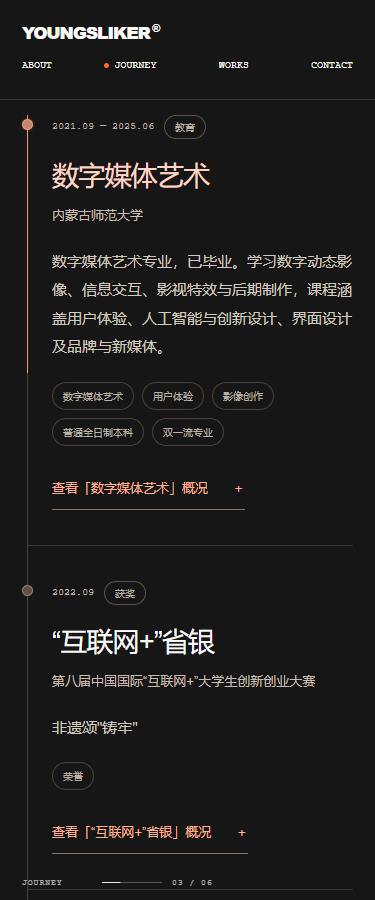
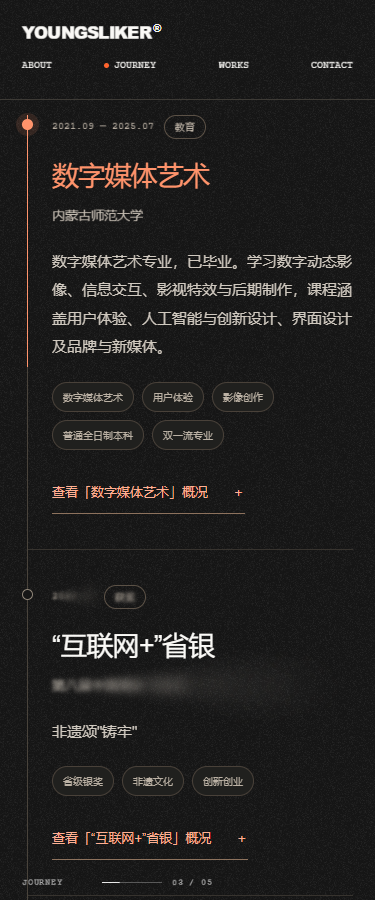
25-26

diff --git a/New/data/journey.ts b/New/data/journey.ts
@@ -4,13 +4,15 @@ export interface TimelineEntry {
 }
 // Explicit source dates only; asset filenames are not evidence of completion.
 const practiceEntries:TimelineEntry[] = [
-  {id:'education',year:'2021',date:'2021.09 — 2025.06',kind:'教育',title:'数字媒体艺术',organization:'内蒙古师范大学',description:'数字媒体艺术专业，已毕业。学习数字动态影像、信息交互、影视特效与后期制作，课程涵盖用户体验、人工智能与创新设计、界面设计及品牌与新媒体。',tags:['数字媒体艺术','用户体验','影像创作','普通全日制本科','双一流专业'],source:'用户提供简历：教育背景',confirmed:true},
+  {id:'education',year:'2021',date:'2021.09 — 2025.07',kind:'教育',title:'数字媒体艺术',organization:'内蒙古师范大学',description:'数字媒体艺术专业，已毕业。学习数字动态影像、信息交互、影视特效与后期制作，课程涵盖用户体验、人工智能与创新设计、界面设计及品牌与新媒体。',tags:['数字媒体艺术','用户体验','影像创作','普通全日制本科','双一流专业'],source:'用户提供简历：教育背景',confirmed:true},
   {id:'mine',year:'2023',date:'2023.08',kind:'项目',title:'矿山*生态',organization:'创作实践',description:'基于 Depth AI 场景建模的 UE5 实机演示。',tags:['Depth AI','UE5','场景建模'],source:'用户提供作品说明及 No.202308',confirmed:true,workId:'mine-eco'},
   {id:'arti',year:'2024',date:'2024.03',kind:'项目',title:'ARTI 人工智能艺术教育教程',organization:'中国人工智能艺术教育协同创新平台',description:'ARTI 平台讲解及人工智能教育联盟公众号教程制作。内容涵盖基础图像生成、产品与交互设计、平面与视觉设计、装置与公共艺术的图像生成教程。',tags:['AI 教程','生成式视觉','艺术教育','内容制作'],source:'用户提供简历：项目经历，2024.03',confirmed:true},
   {id:'lingsu',year:'2024',date:'2024.06',kind:'项目',title:'微元灵溯',organization:'创作实践',description:'基于“隐性饥饿”的 AI 艺术可视化交互设计。',tags:['AI 艺术','可视化','交互设计'],source:'用户提供作品说明及 No.202406',confirmed:true,workId:'weiyuan'},
   {id:'internship',year:'2024',date:'2024.08 — 2024.10',kind:'实习',title:'AIGC 设计师',organization:'上海脸谱心智',description:'参与 AI 动画、宣发物料与模拟器设计，优化 ComfyUI 工作流并使用 PyQt 开发界面。',tags:['ComfyUI','AI 动画','视觉物料','PyQt'],source:'用户提供简历：工作经历',confirmed:true},
   {id:'earthquake',year:'2024',date:'2024.11 — 2024.12',kind:'项目',title:'小马博士讲故事',organization:'内蒙古自治区地震局',description:'“炫动文创联‘萌’守护地震安全”（第二季）——小马博士讲故事活动断层成果应用。制作系列视频，传播活动断层探测成果的应用及减轻地震灾害损失的知识。',tags:['地震科普','系列视频','防灾减灾','知识传播'],source:'用户提供简历：项目经历',confirmed:true},
   {id:'suiyuan',year:'2025',date:'2025.01 — 2025.07',kind:'项目',title:'绥远方志',organization:'“创意内蒙古”设计赋能呼和浩特',description:'以呼和浩特不同时期的史志为内容，设计沉浸式交互系统。使用 AIGC 制作图像、音频、视频、模型、代码与文本，并通过 Unity 整合；结合强化学习智能体、3D 打印与 Pico Neo3 VR 构建体验。',tags:['AIGC','Unity','智能体','VR'],source:'用户提供简历项目经历；完成月份另由用户确认为 2025.07',confirmed:true,workId:'suiyuan'},
+  {id:'studio-practice',year:'2025',date:'2025.07 — 2026.02',kind:'实践',title:'留校工作室实践',organization:'教师工作室',description:'毕业后留校参与老师工作室的项目实践，围绕毕业设计提供技术支持与制作指导，在交流与协作中继续积累项目经验。',tags:['工作室实践','技术支持','毕设指导','项目协作'],source:'用户确认：毕业后留校工作室实践，2025.07—2026.02',confirmed:true},
+  {id:'independent-practice',year:'2026',date:'2026.02 — 至今',kind:'实践',title:'自由项目与创作探索',organization:'独立创作与兼职实践',description:'开展兼职与小型项目实践，继续探索毕业设计相关技术，并通过 Vibe Coding 搭建、迭代个人作品集，将设计想法转化为可体验的交互作品。',tags:['自由项目','Vibe Coding','创意编程','交互设计','作品集开发'],source:'用户确认：2026.02 至今的兼职、小型项目及作品集实践',confirmed:true},
 ];
 // No invented dates or individual/team attribution.
 export const journeyAwards = [

diff --git a/New/css/journey.css b/New/css/journey.css
@@ -47,7 +47,7 @@
 .journey-work-link{border:0;border-bottom:1px solid #8d725d;background:none;cursor:pointer;padding:0;text-align:left}
 .journey-overview{margin-top:24px;padding:26px;border:1px solid #494139;background:#20201e;max-width:720px;animation:overview-in .25s ease-out}.journey-overview h4{font-size:22px;margin:14px 0;color:#ffb093}.journey-overview p{font-size:14px;line-height:1.9;color:#d0c9bf}.journey-overview .journey-overview-meta{font-size:11px;color:#aaa39a;margin-top:18px}.journey-awards time{font:12px var(--mono);color:#aaa39a}@keyframes overview-in{from{opacity:0;transform:translateY(8px)}to{opacity:1;transform:none}}@media(prefers-reduced-motion:reduce){.journey-overview{animation:none}}
 
-@media(max-width:767px){.journey-sidebar nav{display:grid;grid-template-columns:repeat(5,minmax(0,1fr));gap:6px}.journey-sidebar button{min-width:0;flex-direction:column;align-items:flex-start;gap:6px}.journey-sidebar button > span{font-size:23px}}
+@media(max-width:767px){.journey-sidebar nav{display:grid;grid-template-columns:repeat(auto-fit,minmax(48px,1fr));gap:6px}.journey-sidebar button{min-width:0;flex-direction:column;align-items:flex-start;gap:6px}.journey-sidebar button > span{font-size:23px}}
 
 .journey-entry { display:grid; grid-template-columns:minmax(0,1.15fr) minmax(0,1fr); column-gap:clamp(24px,3vw,56px); align-items:start; }
 .journey-entry-copy { min-width:0; }

diff --git a/New/js/tests/journey.spec.ts b/New/js/tests/journey.spec.ts
@@ -6,10 +6,10 @@ for(const width of [375,844,1440,1920]) {
   await page.setViewportSize({width,height:width===844?390:900});
   await page.goto(base+'#journey');
   await expect(page.locator('#journey h2')).toBeInViewport();
-  await expect(page.locator('.journey-entry')).toHaveCount(9);
+  await expect(page.locator('.journey-entry')).toHaveCount(11);
   await expect(page.locator('.journey-review')).toHaveCount(0);
   const nav=page.getByRole('navigation',{name:'经历年份'});
-  for(const [year,id] of [['2025','suiyuan'],['2024','arti'],['2022','award-0'],['2021','education']]) {
+  for(const [year,id] of [['2026','independent-practice'],['2025','suiyuan'],['2024','arti'],['2022','award-0'],['2021','education']]) {
    const button=nav.getByRole('button',{name:new RegExp(year)});
    await button.focus();await page.keyboard.press('Enter');
    await expect(page.locator(`#journey-${id}`)).toHaveAttribute('data-current','true');
